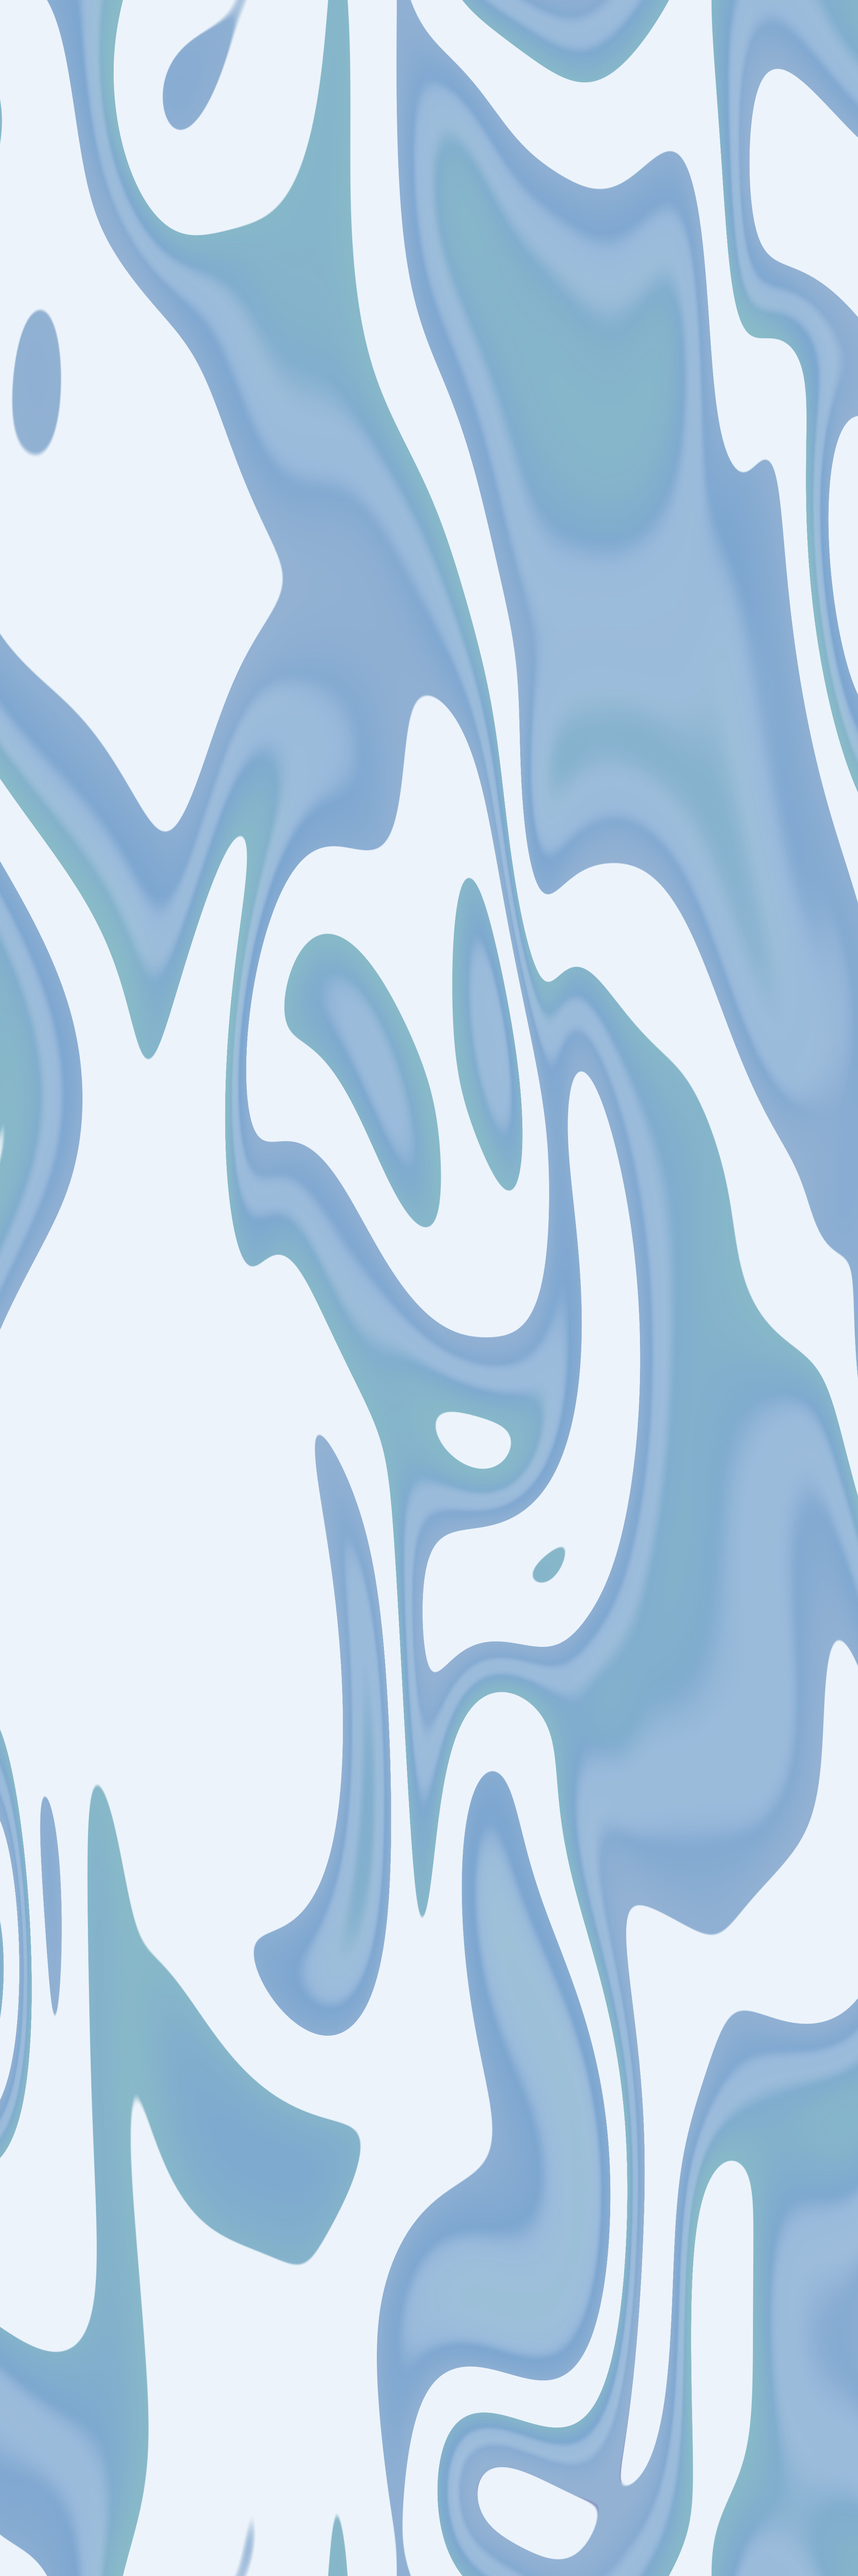
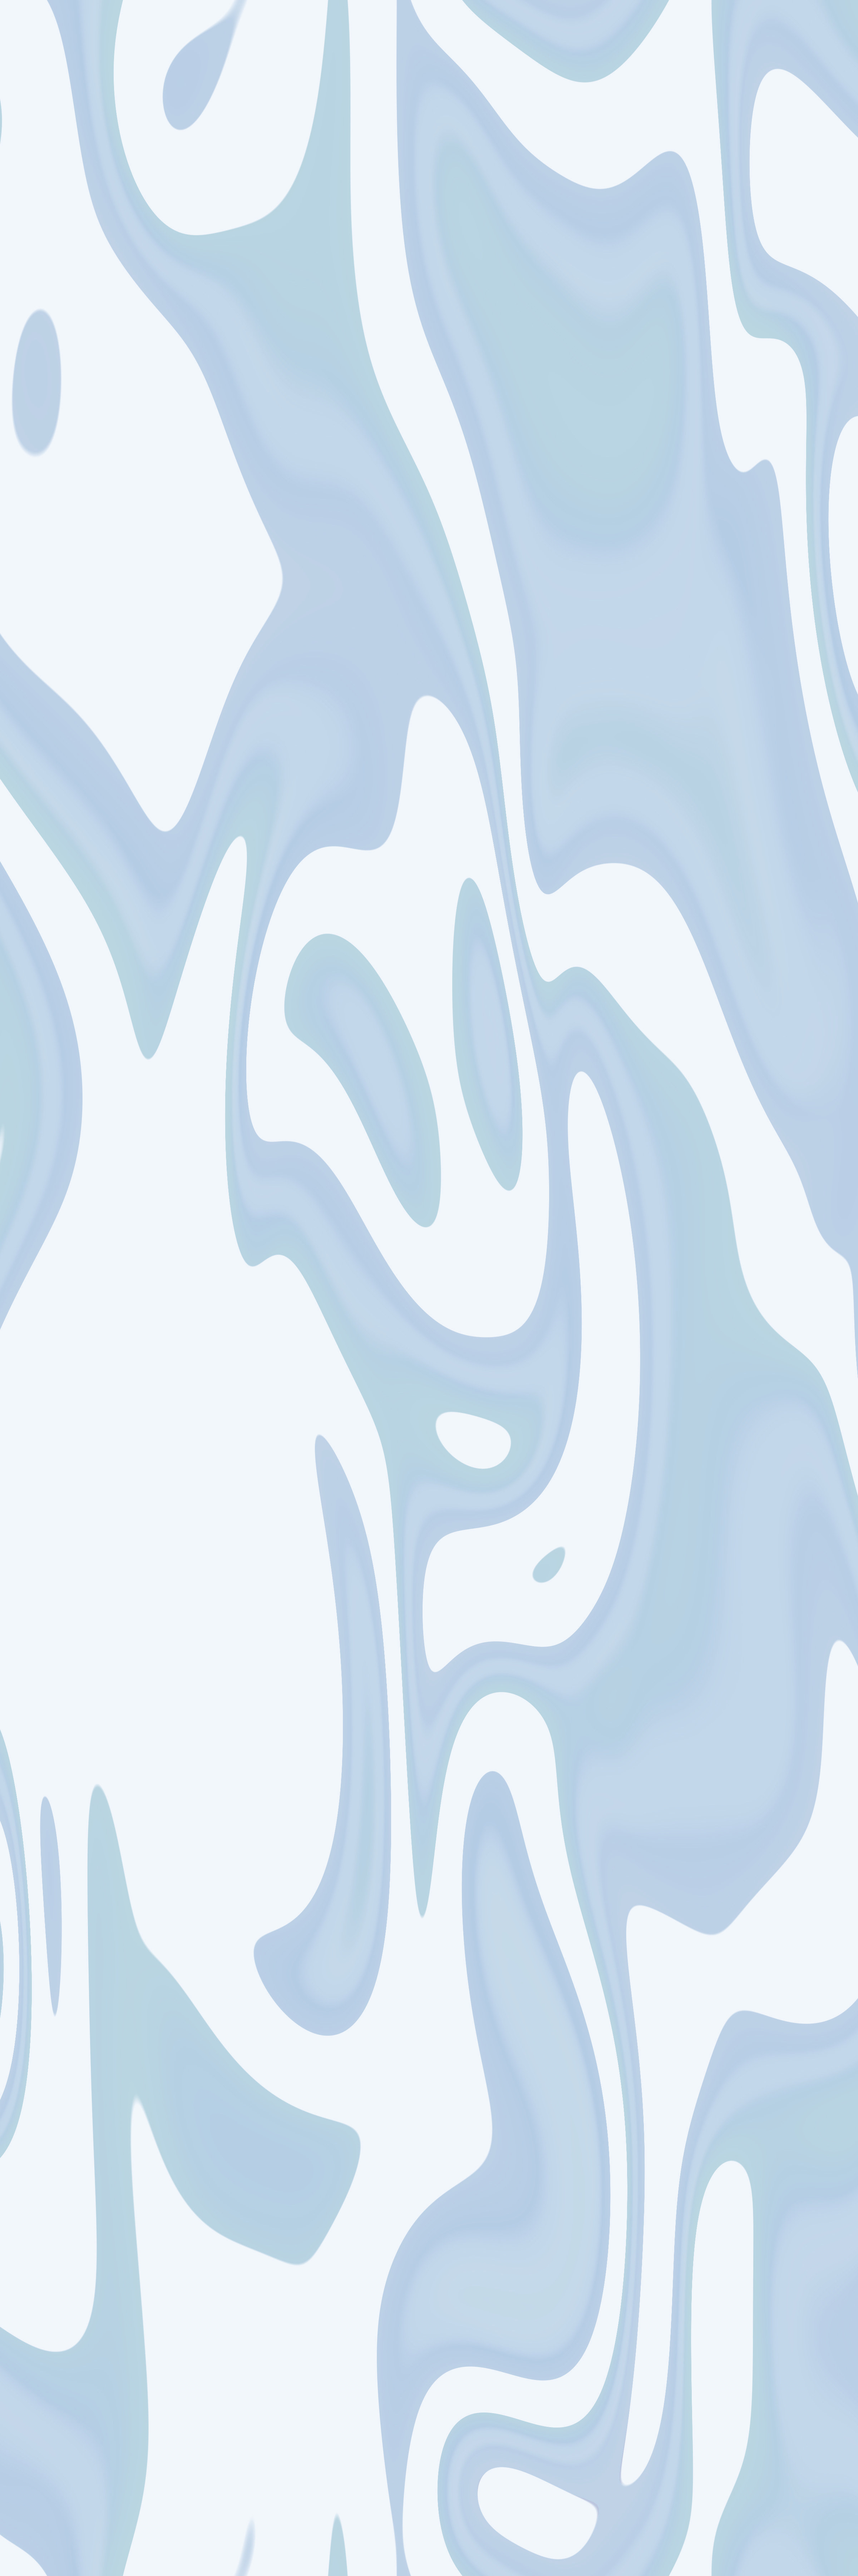
Lighter background, regular-weight text

diff --git a/style.css b/style.css
@@ -1,6 +1,6 @@
 body {
   font-family: "IBM Plex Sans", Helvetica, Arial, sans-serif;
-  font-weight: 500;
+  font-weight: 400;
   line-height: 1.65;
   color: #0b1118;
   letter-spacing: normal;
@@ -39,7 +39,7 @@ b, strong { font-weight: 700; }
 /* profile photo */
 .profile { float: right; width: 250px; margin: 0 0 1rem 2rem; text-align: right; }
 .profile img { width: 100%; height: auto; border-radius: 6px; box-shadow: 0 2px 6px rgba(0,0,0,0.2); }
-.profile p { font-size: 0.9rem; font-weight: 500; color: #0b1118; margin: 0.4rem 0 0; line-height: 1.4; }
+.profile p { font-size: 0.9rem; font-weight: 400; color: #0b1118; margin: 0.4rem 0 0; line-height: 1.4; }
 .clear { clear: both; }
 
 /* news */
@@ -54,7 +54,7 @@ table.news td { padding: 0.35rem 0; vertical-align: top; }
 /* entries */
 .entry { margin-bottom: 1.2rem; }
 .entry .title { font-weight: 700; }
-.entry .meta { color: #0b1118; font-weight: 500; font-size: 0.92rem; }
+.entry .meta { color: #0b1118; font-weight: 400; font-size: 0.92rem; }
 .tag { font-size: 0.78rem; border: 1px solid #0076df; color: #0076df; border-radius: 3px; padding: 0 0.35rem; margin-right: 0.3rem; }
 .topic-note { color: #0b1118; font-size: 0.92rem; margin: 0 0 0.6rem; }
 ul { padding-left: 1.2rem; margin: 0 0 1rem; }
@@ -62,7 +62,7 @@ li { margin-bottom: 0.4rem; }
 
 .highlight { border-left: 3px solid #0076df; padding: 0.6rem 1rem; margin-bottom: 1rem; }
 
-footer { margin-top: 3rem; font-size: 0.9rem; font-weight: 500; color: #0b1118; border-top: 1px solid #0b1118; padding-top: 1rem; }
+footer { margin-top: 3rem; font-size: 0.9rem; font-weight: 400; color: #0b1118; border-top: 1px solid #0b1118; padding-top: 1rem; }
 
 @media (max-width: 640px) {
   .profile { float: none; margin: 0 auto 1.5rem; text-align: center; }
@@ -72,8 +72,8 @@ footer { margin-top: 3rem; font-size: 0.9rem; font-weight: 500; color: #0b1118; 
 .side { float: right; width: 160px; margin: 0 0 1rem 1.5rem; border-radius: 6px; box-shadow: 0 2px 6px rgba(0,0,0,0.2); }
 .banner { display: block; width: 100%; height: auto; margin-top: 3rem; border-radius: 6px; }
 .center { display: block; width: 280px; max-width: 100%; margin: 0.5rem 0 0; border-radius: 6px; box-shadow: 0 2px 6px rgba(0,0,0,0.2); }
-.quote { margin: 3rem 0 0; padding: 0 1rem; text-align: center; font-size: 1.3rem; font-style: italic; font-weight: 600; color: #0b1118; }
-.quote footer { margin: 0.3rem 0 0; padding: 0; border: 0; font-size: 0.9rem; font-style: normal; font-weight: 500; color: #0b1118; }
+.quote { margin: 3rem 0 0; padding: 0 1rem; text-align: center; font-size: 1.3rem; font-style: italic; font-weight: 400; color: #0b1118; }
+.quote footer { margin: 0.3rem 0 0; padding: 0; border: 0; font-size: 0.9rem; font-style: normal; font-weight: 400; color: #0b1118; }
 
 .topics { list-style: none; padding: 0; }
 .topics li { margin-bottom: 0.3rem; }
